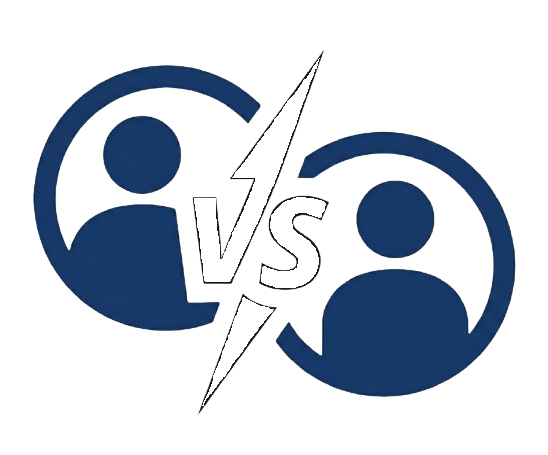
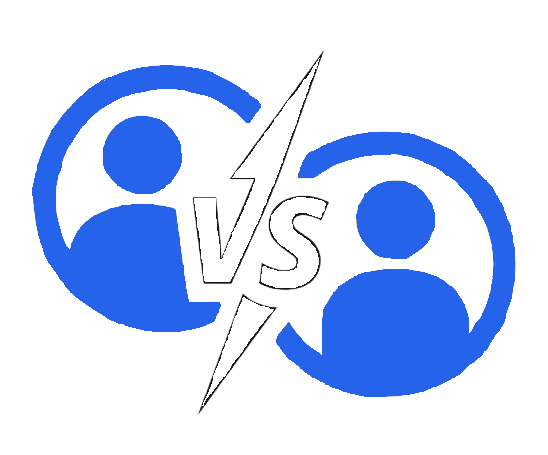
pngs

Changed region(s): [[0.4964, 0.2769, 0.9617, 0.8923], [0.062, 0.1231, 0.4964, 0.7385]]

diff --git a/src/screens/HomeScreen.tsx b/src/screens/HomeScreen.tsx
@@ -2673,13 +2673,14 @@ function createHomeStyles(colors: ThemeColors) {
       flexDirection: 'row',
       alignItems: 'center',
       justifyContent: 'space-between',
-      paddingHorizontal: spacing.md,
+      paddingLeft: spacing.md,
+      paddingRight: spacing.xs + 4,
       paddingTop: 0,
-      paddingBottom: 4,
+      paddingBottom: 5,
       backgroundColor: colors.cardBg,
       borderBottomWidth: 1,
       borderBottomColor: colors.border,
-      marginBottom: 2,
+      marginBottom: 0,
     },
     topBarIcon: {
       width: 34,
@@ -4164,8 +4165,8 @@ export default function HomeScreen() {
       {/* ---- Top bar (includes safe-area inset so cardBg fills behind status bar) ---- */}
       <View style={[styles.topBar, { paddingTop: insets.top }]}>
         <Image
-          source={themeMode === 'dark' ? require('../../assets/icon_dark.png') : require('../../assets/icon_blue_small.png')}
-          style={{ height: 44, width: 120, marginLeft: -6, marginBottom: -2 }}
+          source={themeMode === 'dark' ? require('../../assets/icon_dark_mode.png') : require('../../assets/icon_light_mode.png')}
+          style={{ height: 44, width: 100, marginLeft: 2, marginBottom: -2 }}
           resizeMode="contain"
         />
         <View style={styles.topBarRight}>
